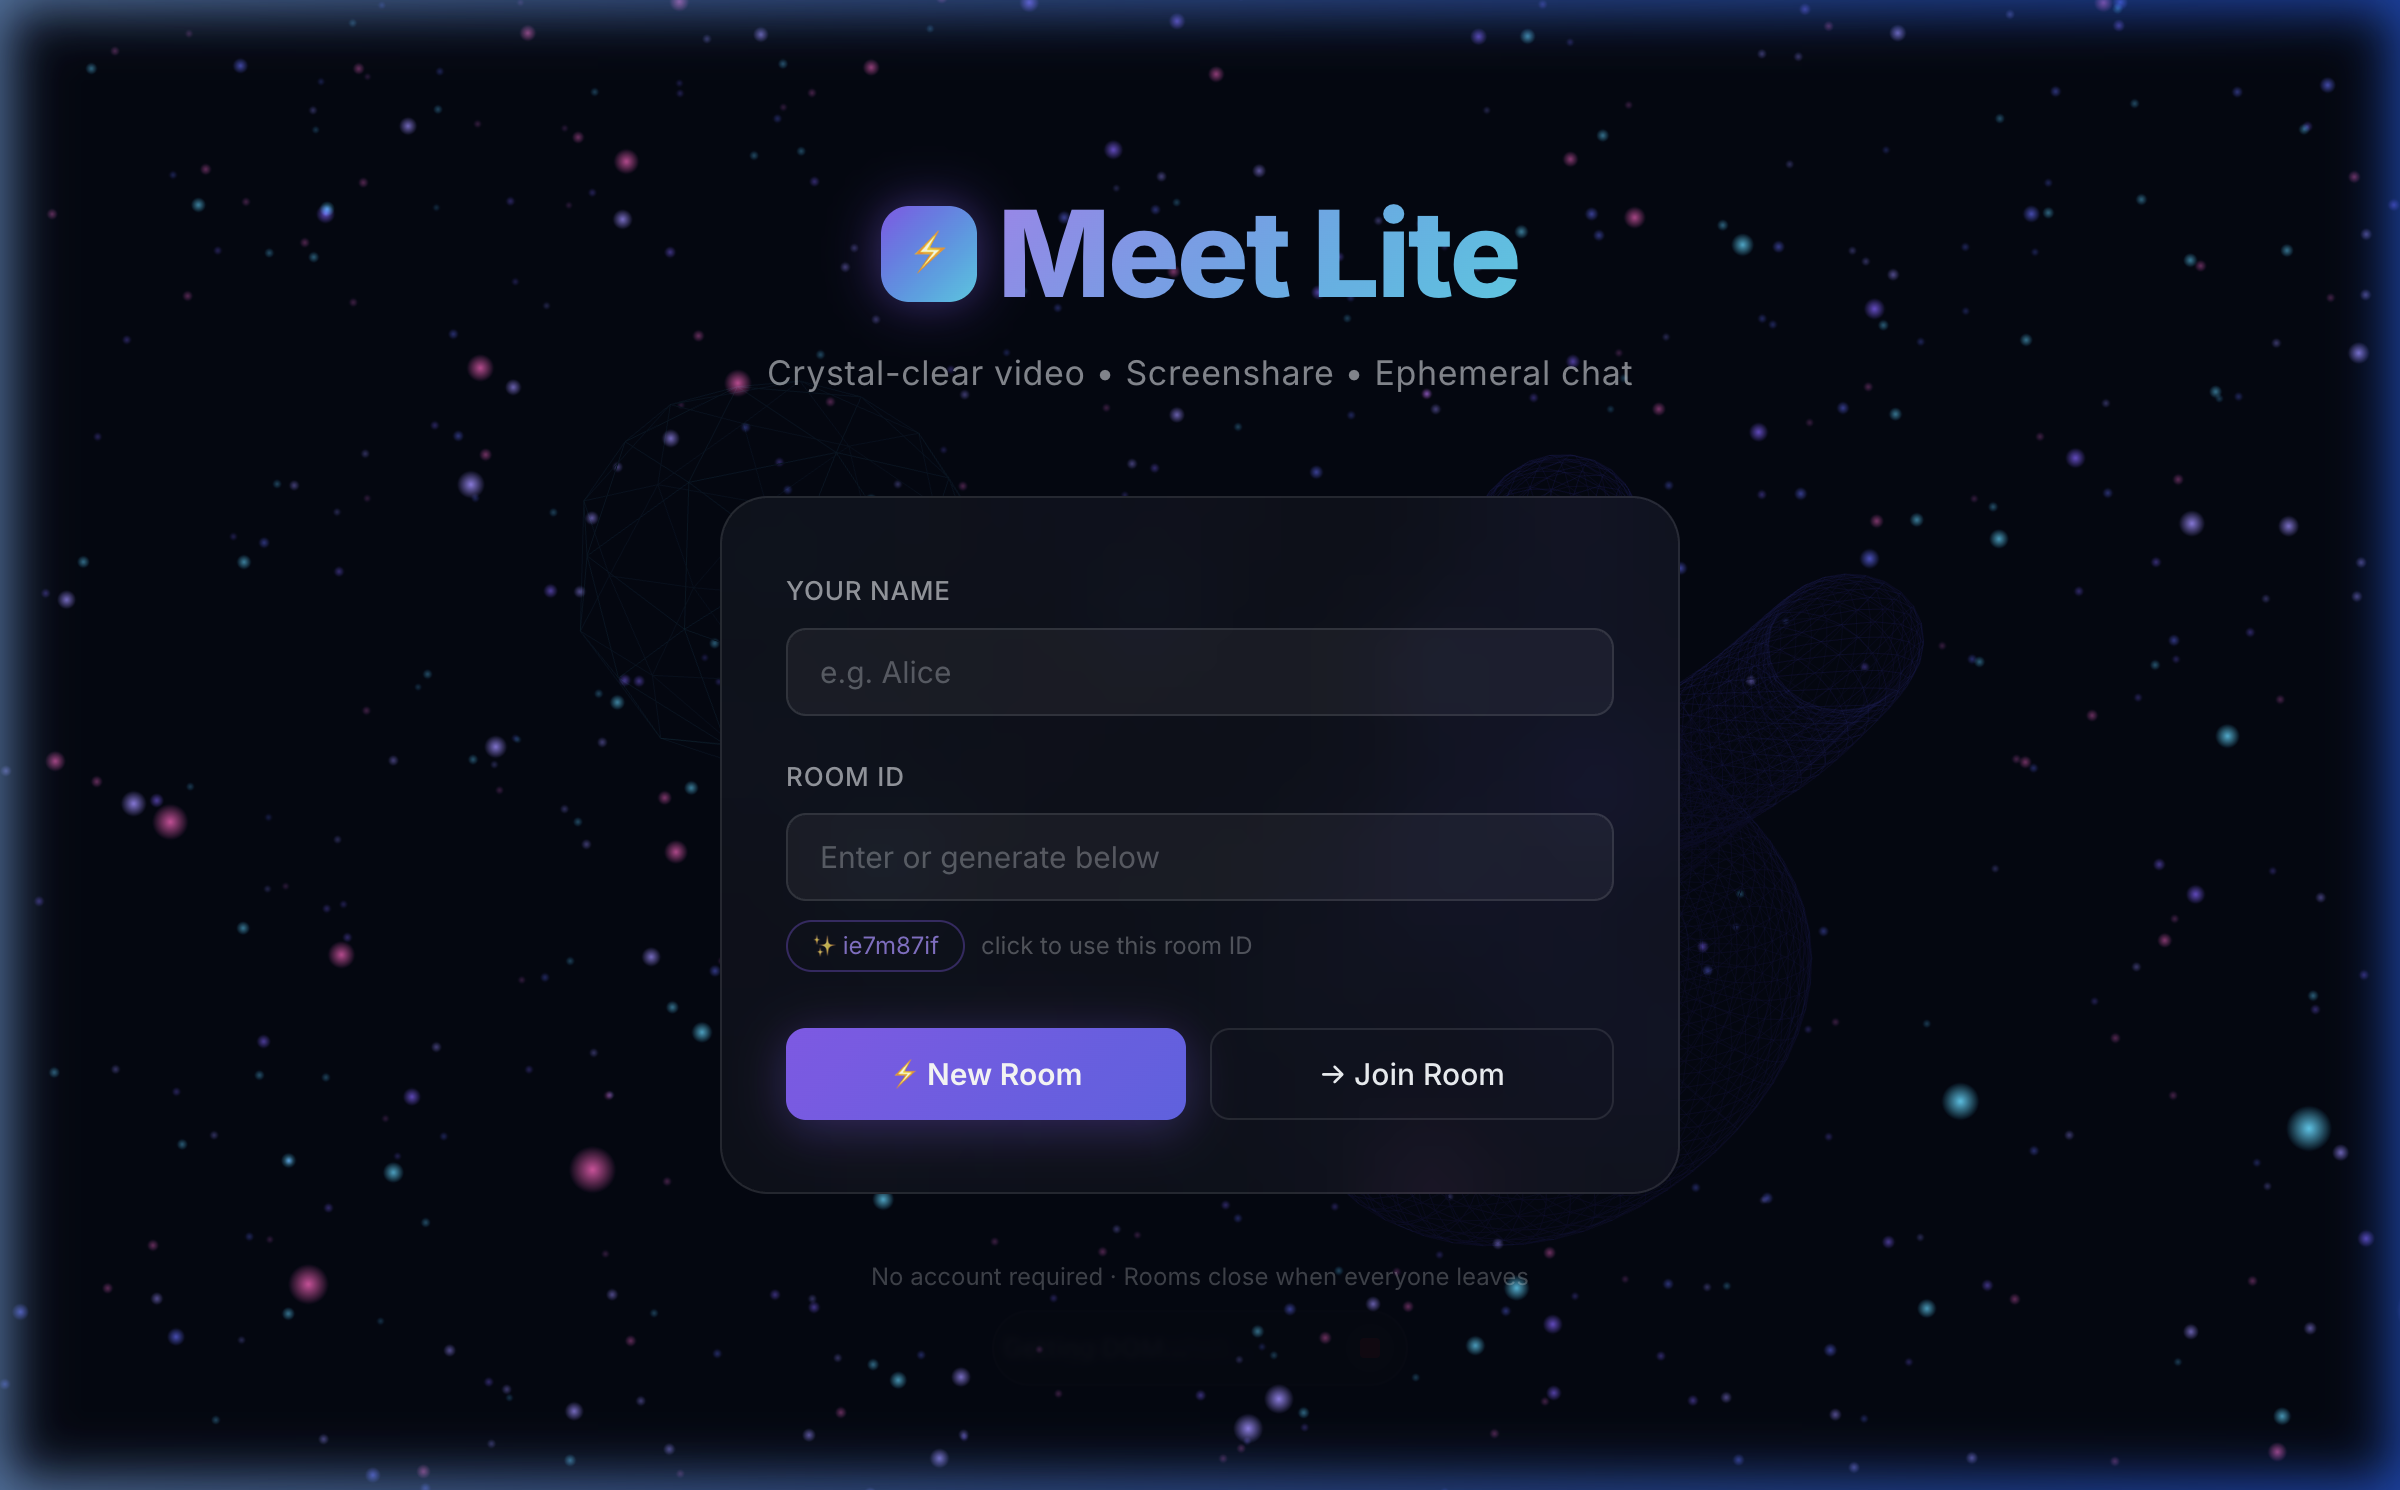
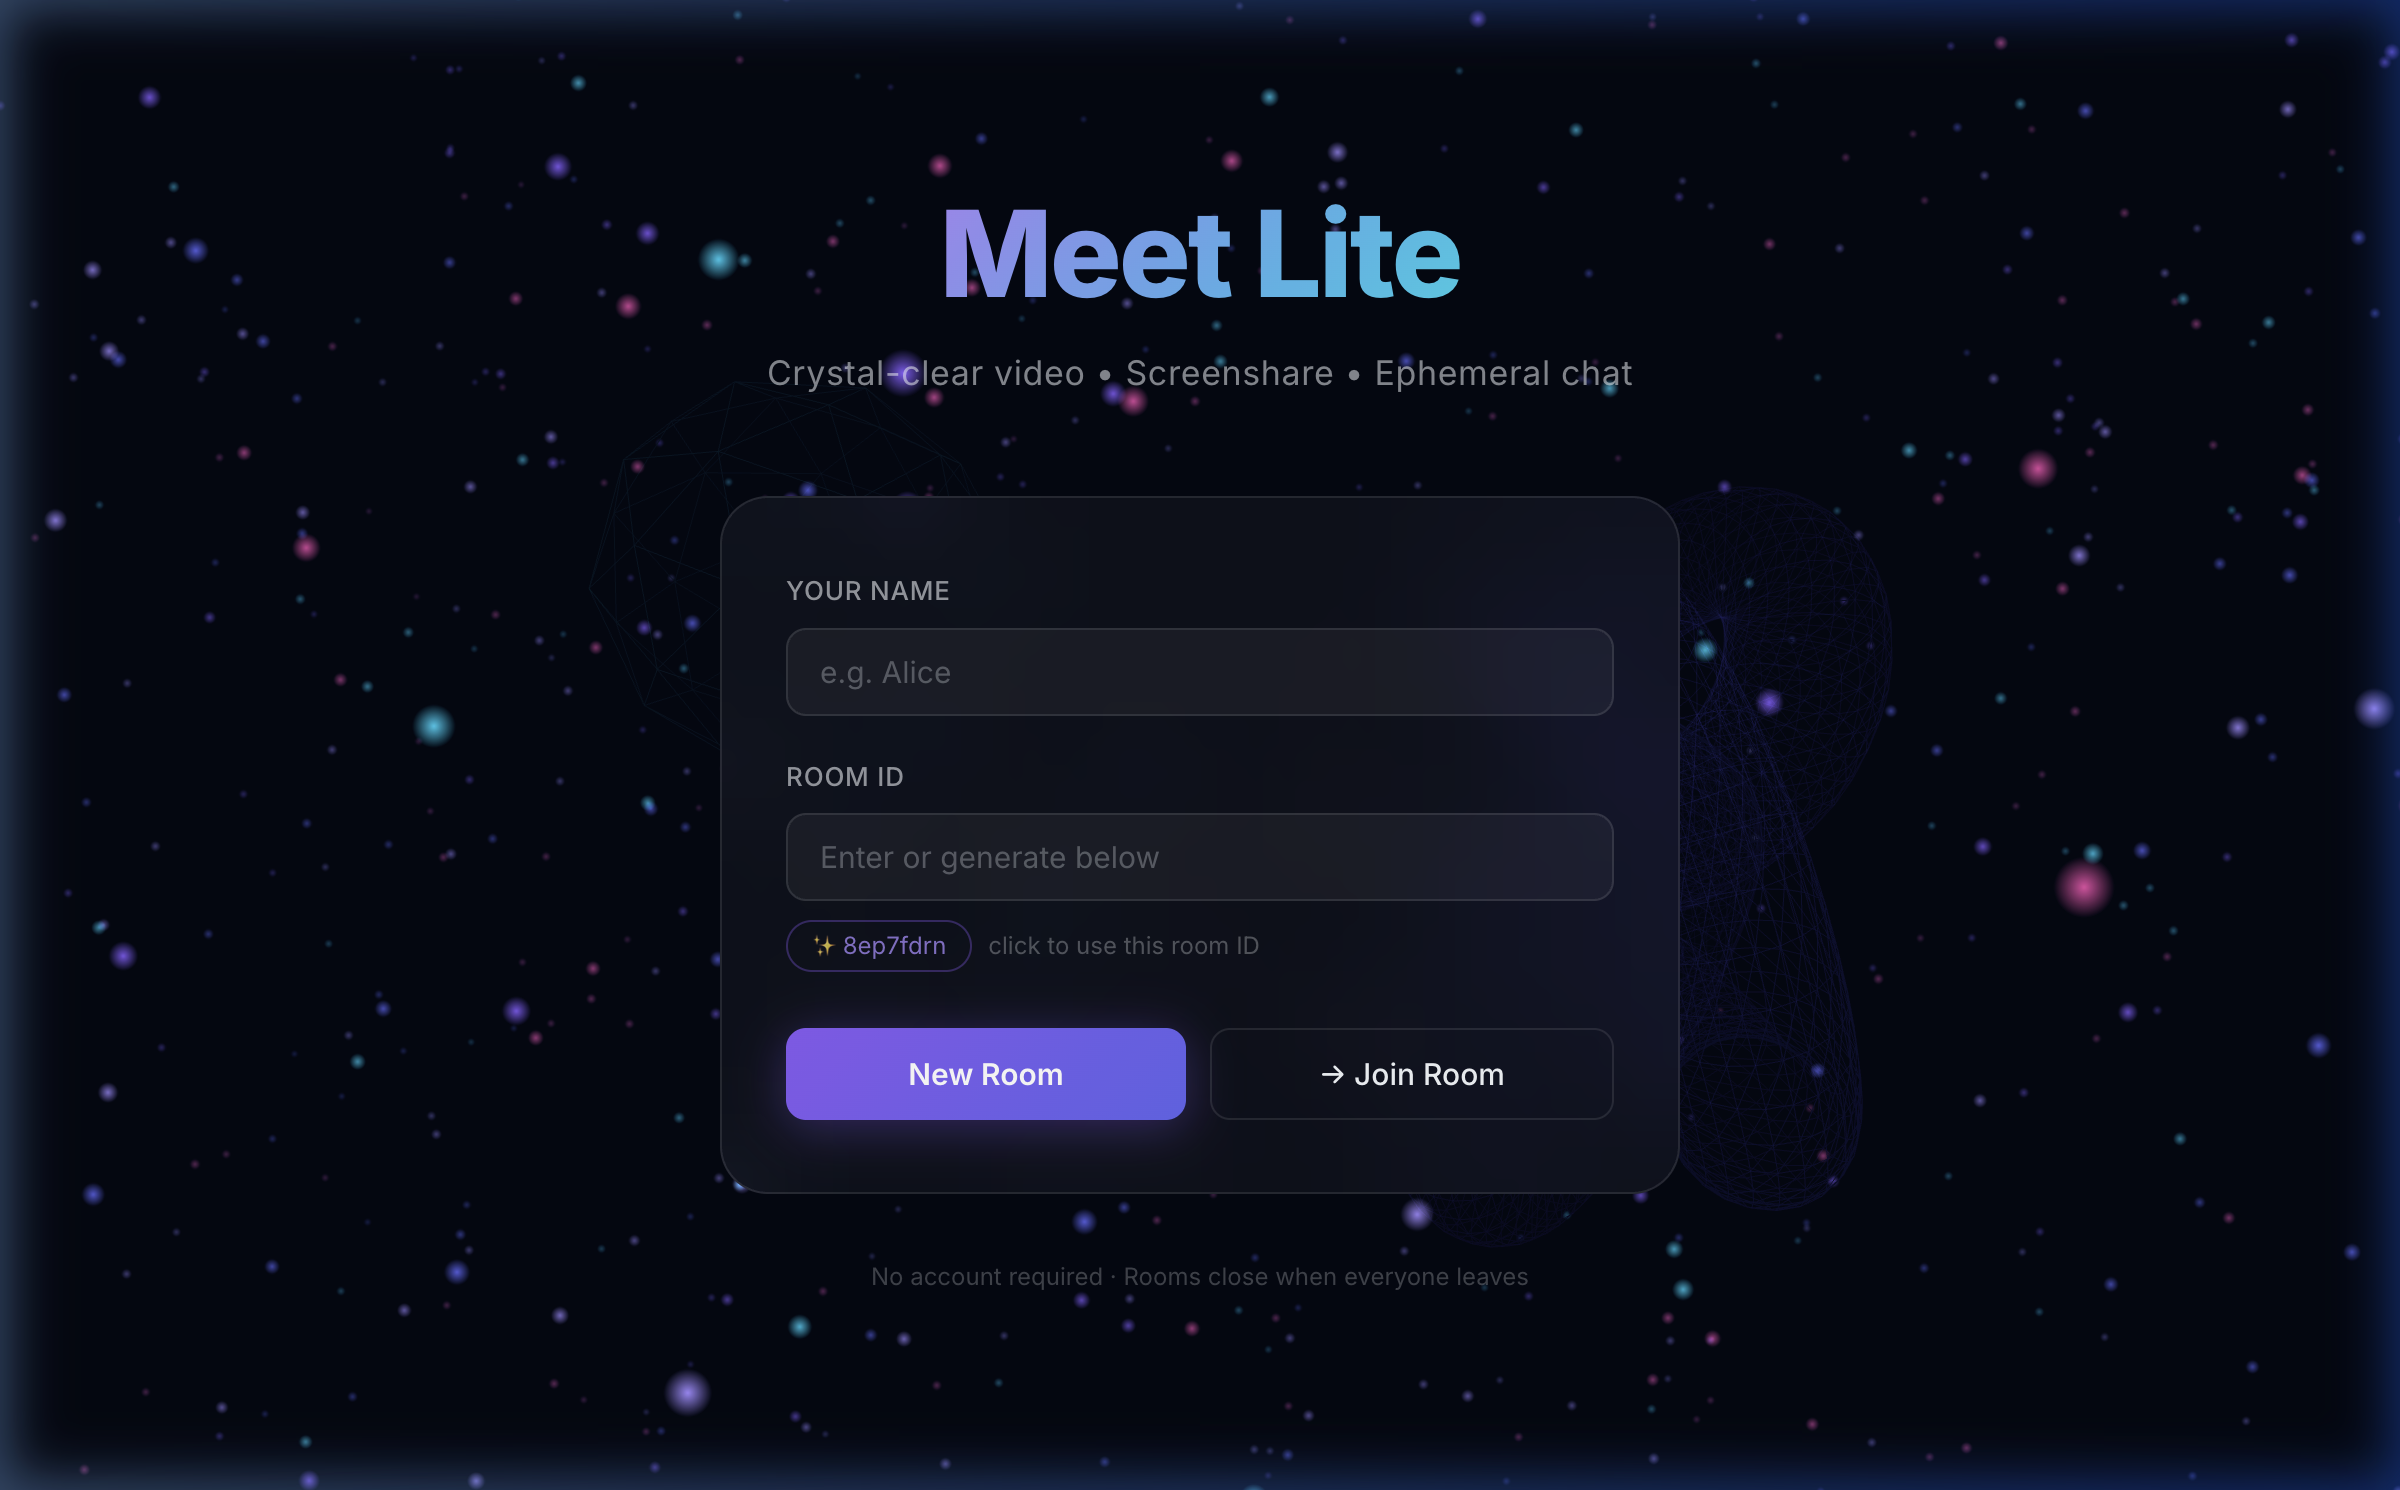
h

diff --git a/README.md b/README.md
@@ -1,4 +1,4 @@
-# Meet Lite ⚡
+# Meet Lite 
 
 Meet Lite is a lightweight, modern group video calling application featuring crystal-clear video, screen sharing, and ephemeral chat. Designed with a premium dark glassmorphism UI and a stunning 3D interactive background.
 
